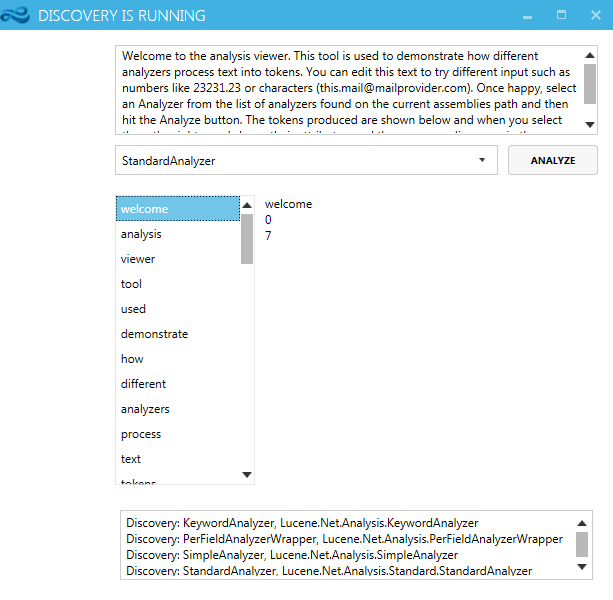
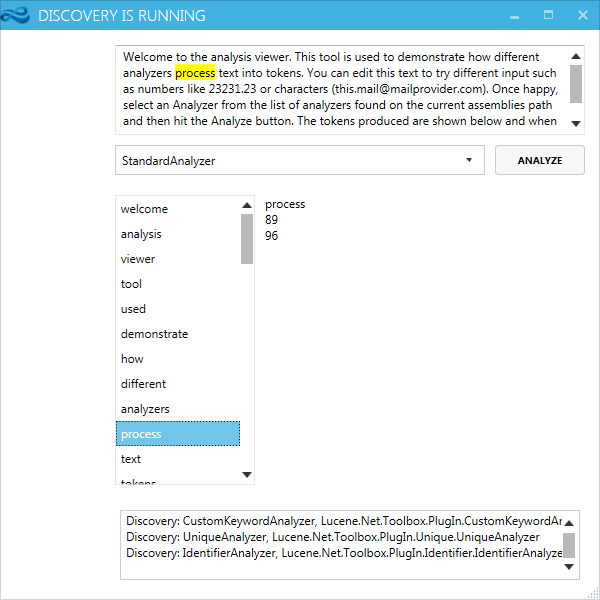
Refactoring namespaces. Added HighlightTextFormatter.

diff --git a/Lucene.Net.ToolBox.Desktop/Views/MainWindow.xaml b/Lucene.Net.ToolBox.Desktop/Views/MainWindow.xaml
@@ -27,7 +27,9 @@
                 <ResourceDictionary Source="pack://application:,,,/MahApps.Metro;component/Styles/Accents/Blue.xaml" />
                 <ResourceDictionary Source="pack://application:,,,/MahApps.Metro;component/Styles/Accents/BaseLight.xaml" />
             </ResourceDictionary.MergedDictionaries>
-            
+
+            <formatters:HighlightTextFormatter x:Key="HighlightTextFormatter" />
+
             <DataTemplate x:Key="AnalyzerItemTemplate"
                           DataType="{x:Type interfaces:IAnalyzer}">
                 <Grid>
@@ -98,13 +100,10 @@
                                              Grid.ColumnSpan="2"
                                              Margin="5"
                                              VerticalScrollBarVisibility="Visible"
-                                             Text="{Binding Path=Text, Mode=TwoWay}">
-                
-                <richTextBox:EditableRichTextBox.TextFormatter>
-                    <formatters:PlainTextFormatter />
-                </richTextBox:EditableRichTextBox.TextFormatter>
-                
-            </richTextBox:EditableRichTextBox>
+                                             Text="{Binding Path=Text, Mode=TwoWay}"
+                                             TextHighlightColor="Yellow"
+                                             TextFormatter="{StaticResource HighlightTextFormatter}"
+                                             TextFormatterParameter="{Binding Path=CurrentToken}" />
 
         </Grid>
 

diff --git a/Lucene.Net.ToolBox.Desktop/Utils/RichTextBox/EditableRichTextbox.cs b/Lucene.Net.ToolBox.Desktop/Utils/RichTextBox/EditableRichTextbox.cs
@@ -1,6 +1,9 @@
-using System.Windows;
+using System.Runtime.InteropServices;
+using System.Windows;
 using System.Windows.Data;
 using System.Windows.Documents;
+using System.Windows.Media;
+using Lucene.Net.Toolbox.Contracts;
 using Lucene.Net.Toolbox.Desktop.Utils.RichTextBox.Formatters;
 
 namespace Lucene.Net.Toolbox.Desktop.Utils.RichTextBox
@@ -19,18 +22,12 @@ namespace Lucene.Net.Toolbox.Desktop.Utils.RichTextBox
 
         #region Text
 
-        public static readonly DependencyProperty TextProperty = DependencyProperty.Register("Text", typeof(string), typeof(System.Windows.Controls.RichTextBox), new FrameworkPropertyMetadata(string.Empty, FrameworkPropertyMetadataOptions.BindsTwoWayByDefault, OnTextPropertyChanged, CoerceTextProperty, true, UpdateSourceTrigger.LostFocus));
+        public static readonly DependencyProperty TextProperty = DependencyProperty.Register("Text", typeof(string), typeof(EditableRichTextBox), new FrameworkPropertyMetadata(string.Empty, FrameworkPropertyMetadataOptions.BindsTwoWayByDefault, OnTextPropertyChanged, CoerceTextProperty, true, UpdateSourceTrigger.LostFocus));
 
         public string Text
         {
-            get
-            {
-                return (string)GetValue(TextProperty);
-            }
-            set
-            {
-                SetValue(TextProperty, value);
-            }
+            get { return (string)GetValue(TextProperty); }
+            set { SetValue(TextProperty, value); }
         }
 
         private static void OnTextPropertyChanged(DependencyObject d, DependencyPropertyChangedEventArgs e)
@@ -45,20 +42,36 @@ namespace Lucene.Net.Toolbox.Desktop.Utils.RichTextBox
 
         #endregion
 
+        #region TextHighlightColor
+
+        public static readonly DependencyProperty TextHighlightColorProperty = DependencyProperty.Register("TextHighlightColor", typeof(Color), typeof(EditableRichTextBox), new FrameworkPropertyMetadata(Colors.Transparent, FrameworkPropertyMetadataOptions.BindsTwoWayByDefault, OnTextHighlightColorPropertyChanged, CoerceTextHighlightColorProperty, true, UpdateSourceTrigger.LostFocus));
+
+        public Color TextHighlightColor
+        {
+            get { return (Color)GetValue(TextHighlightColorProperty); }
+            set { SetValue(TextHighlightColorProperty, value); }
+        }
+
+        private static void OnTextHighlightColorPropertyChanged(DependencyObject d, DependencyPropertyChangedEventArgs e)
+        {
+            ((EditableRichTextBox)d).UpdateDocumentFromText();
+        }
+
+        private static object CoerceTextHighlightColorProperty(DependencyObject d, object value)
+        {
+            return value ?? Colors.Transparent;
+        }
+
+        #endregion
+
         #region TextFormatter
 
-        public static readonly DependencyProperty TextFormatterProperty = DependencyProperty.Register("TextFormatter", typeof(ITextFormatter), typeof(System.Windows.Controls.RichTextBox), new FrameworkPropertyMetadata(new PlainTextFormatter(), OnTextFormatterPropertyChanged));
+        public static readonly DependencyProperty TextFormatterProperty = DependencyProperty.Register("TextFormatter", typeof(ITextFormatter), typeof(EditableRichTextBox), new FrameworkPropertyMetadata(new HighlightTextFormatter(), OnTextFormatterPropertyChanged));
 
         public ITextFormatter TextFormatter
         {
-            get
-            {
-                return (ITextFormatter)GetValue(TextFormatterProperty);
-            }
-            set
-            {
-                SetValue(TextFormatterProperty, value);
-            }
+            get { return (ITextFormatter) GetValue(TextFormatterProperty); }
+            set { SetValue(TextFormatterProperty, value); }
         }
 
         private static void OnTextFormatterPropertyChanged(DependencyObject d, DependencyPropertyChangedEventArgs e)
@@ -71,6 +84,30 @@ namespace Lucene.Net.Toolbox.Desktop.Utils.RichTextBox
         protected virtual void OnTextFormatterPropertyChanged(ITextFormatter oldValue, ITextFormatter newValue)
         {
             UpdateTextFromDocument();
+        }
+
+        #endregion
+
+        #region TextFormatterParameter
+
+        public static readonly DependencyProperty TextFormatterParameterProperty = DependencyProperty.Register("TextFormatterParameter", typeof(IToken), typeof(EditableRichTextBox), new FrameworkPropertyMetadata(null, OnTextFormatterParameterPropertyChanged));
+
+        public IToken TextFormatterParameter
+        {
+            get { return (IToken) GetValue(TextFormatterParameterProperty); }
+            set { SetValue(TextFormatterParameterProperty, value); }
+        }
+
+        private static void OnTextFormatterParameterPropertyChanged(DependencyObject d, DependencyPropertyChangedEventArgs e)
+        {
+            EditableRichTextBox richTextBox = d as EditableRichTextBox;
+            if (richTextBox != null)
+                richTextBox.OnTextFormatterParameterPropertyChanged((IToken)e.OldValue, (IToken)e.NewValue);
+        }
+
+        protected virtual void OnTextFormatterParameterPropertyChanged(IToken oldValue, IToken newValue)
+        {
+            UpdateDocumentFromText();
         }
 
         #endregion 
@@ -106,7 +143,7 @@ namespace Lucene.Net.Toolbox.Desktop.Utils.RichTextBox
                 return;
 
             _preventTextUpdate = true;
-            TextFormatter.SetText(Document, Text);
+            TextFormatter.SetText(Document, Text, TextHighlightColor, TextFormatterParameter);
             _preventTextUpdate = false;
         }
 

diff --git a/Lucene.Net.ToolBox.Desktop/Utils/RichTextBox/Formatters/HighlightTextFormatter.cs b/Lucene.Net.ToolBox.Desktop/Utils/RichTextBox/Formatters/HighlightTextFormatter.cs
@@ -1,0 +1,34 @@
+using System.Windows.Documents;
+using System.Windows.Media;
+using Lucene.Net.Toolbox.Contracts;
+
+namespace Lucene.Net.Toolbox.Desktop.Utils.RichTextBox.Formatters
+{
+    sealed class HighlightTextFormatter
+        : ITextFormatter
+    {
+        public string GetText(FlowDocument document)
+        {
+            return new TextRange(document.ContentStart, document.ContentEnd).Text;
+        }
+
+        public void SetText(FlowDocument document, string text, Color color, IToken token)
+        {
+            var textRange = new TextRange(document.ContentStart, document.ContentEnd)
+            {
+                Text = text
+            };
+
+            if (token == null)
+            { 
+                return;
+            }
+
+            var startOffset = textRange.Start.GetPositionAtOffset(token.StartOffset);
+            var endOffset = textRange.Start.GetPositionAtOffset(token.EndOffset);
+
+            var highlightRange = new TextRange(startOffset, endOffset);
+            highlightRange.ApplyPropertyValue(TextElement.BackgroundProperty, new SolidColorBrush(color));
+        }
+    }
+}

diff --git a/Lucene.Net.ToolBox/Info/AnalyzerInfo.cs b/Lucene.Net.ToolBox/Info/AnalyzerInfo.cs
@@ -1,14 +1,14 @@
-using Lucene.Net.Analysis;
-using Lucene.Net.Analysis.Tokenattributes;
-using Lucene.Net.Toolbox.Contracts;
-using System;
+using System;
 using System.Collections.Generic;
 using System.IO;
 using System.Linq;
 using System.Threading.Tasks;
+using Lucene.Net.Analysis;
+using Lucene.Net.Analysis.Tokenattributes;
+using Lucene.Net.Toolbox.Contracts;
 using Version = Lucene.Net.Util.Version;
 
-namespace Lucene.Net.Toolbox.Impl.Info
+namespace Lucene.Net.Toolbox.Info
 {
     sealed class AnalyzerInfo
         : IAnalyzer

diff --git a/Lucene.Net.ToolBox/Properties/AssemblyInfo.cs b/Lucene.Net.ToolBox/Properties/AssemblyInfo.cs
@@ -2,11 +2,11 @@
 using System.Runtime.CompilerServices;
 using System.Runtime.InteropServices;
 
-[assembly: AssemblyTitle("Lucene.Net.Toolbox.Impl")]
+[assembly: AssemblyTitle("Lucene.Net.Toolbox")]
 [assembly: AssemblyDescription("")]
 [assembly: AssemblyConfiguration("")]
 [assembly: AssemblyCompany("")]
-[assembly: AssemblyProduct("Lucene.Net.Toolbox.Impl")]
+[assembly: AssemblyProduct("Lucene.Net.Toolbox")]
 [assembly: AssemblyCopyright("Copyright ©  2016")]
 [assembly: AssemblyTrademark("")]
 [assembly: AssemblyCulture("")]

diff --git a/Lucene.Net.ToolBox/Discovery/BaseDiscovery.cs b/Lucene.Net.ToolBox/Discovery/BaseDiscovery.cs
@@ -1,12 +1,12 @@
-using Lucene.Net.Analysis;
-using Lucene.Net.Toolbox.Contracts;
-using Lucene.Net.Toolbox.Impl.Info;
-using System;
+using System;
 using System.Diagnostics;
 using System.Linq;
 using System.Reflection;
+using Lucene.Net.Analysis;
+using Lucene.Net.Toolbox.Contracts;
+using Lucene.Net.Toolbox.Info;
 
-namespace Lucene.Net.Toolbox.Impl.Discovery
+namespace Lucene.Net.Toolbox.Discovery
 {
     abstract class BaseDiscovery
         : IDiscovery

diff --git a/Lucene.Net.ToolBox/ToolboxModule.cs b/Lucene.Net.ToolBox/ToolboxModule.cs
@@ -1,11 +1,11 @@
 using Lucene.Net.Toolbox.Contracts;
-using Lucene.Net.Toolbox.Impl.Discovery;
-using Lucene.Net.Toolbox.Impl.Info;
+using Lucene.Net.Toolbox.Discovery;
+using Lucene.Net.Toolbox.Info;
 using Ninject.Modules;
 
-namespace Lucene.Net.Toolbox.Impl
+namespace Lucene.Net.Toolbox
 {
-    public sealed class ImplModule
+    public sealed class ToolboxModule
         : NinjectModule
     {
         public override void Load()

diff --git a/Lucene.Net.ToolBox.Desktop/Extensions/NinjectExtensions.cs b/Lucene.Net.ToolBox.Desktop/Extensions/NinjectExtensions.cs
@@ -1,5 +1,4 @@
-using Lucene.Net.Toolbox.Impl;
-using Ninject;
+using Ninject;
 
 namespace Lucene.Net.Toolbox.Desktop.Extensions
 {
@@ -7,7 +6,7 @@ namespace Lucene.Net.Toolbox.Desktop.Extensions
     {
         public static void Initialize(this IKernel kernel)
         {
-            kernel.Load(new ImplModule(), new DesktopModule());
+            kernel.Load(new ToolboxModule(), new DesktopModule());
         }
     }
 }

diff --git a/Lucene.Net.ToolBox.Desktop/Utils/RichTextBox/Formatters/ITextFormatter.cs b/Lucene.Net.ToolBox.Desktop/Utils/RichTextBox/Formatters/ITextFormatter.cs
@@ -1,10 +1,12 @@
 using System.Windows.Documents;
+using System.Windows.Media;
+using Lucene.Net.Toolbox.Contracts;
 
 namespace Lucene.Net.Toolbox.Desktop.Utils.RichTextBox.Formatters
 {
     interface ITextFormatter
     {
         string GetText(FlowDocument document);
-        void SetText(FlowDocument document, string text);
+        void SetText(FlowDocument document, string text, Color color, IToken token);
     }
 }

diff --git a/Lucene.Net.ToolBox/Discovery/FileSystemDiscovery.cs b/Lucene.Net.ToolBox/Discovery/FileSystemDiscovery.cs
@@ -6,7 +6,7 @@ using System.Threading;
 using System.Timers;
 using Timer = System.Timers.Timer;
 
-namespace Lucene.Net.Toolbox.Impl.Discovery
+namespace Lucene.Net.Toolbox.Discovery
 {
     sealed class FileSystemDiscovery
         : BaseDiscovery

diff --git a/Lucene.Net.ToolBox/Info/TokenInfo.cs b/Lucene.Net.ToolBox/Info/TokenInfo.cs
@@ -1,6 +1,6 @@
 using Lucene.Net.Toolbox.Contracts;
 
-namespace Lucene.Net.Toolbox.Impl.Info
+namespace Lucene.Net.Toolbox.Info
 {
     class TokenInfo
         : IToken
